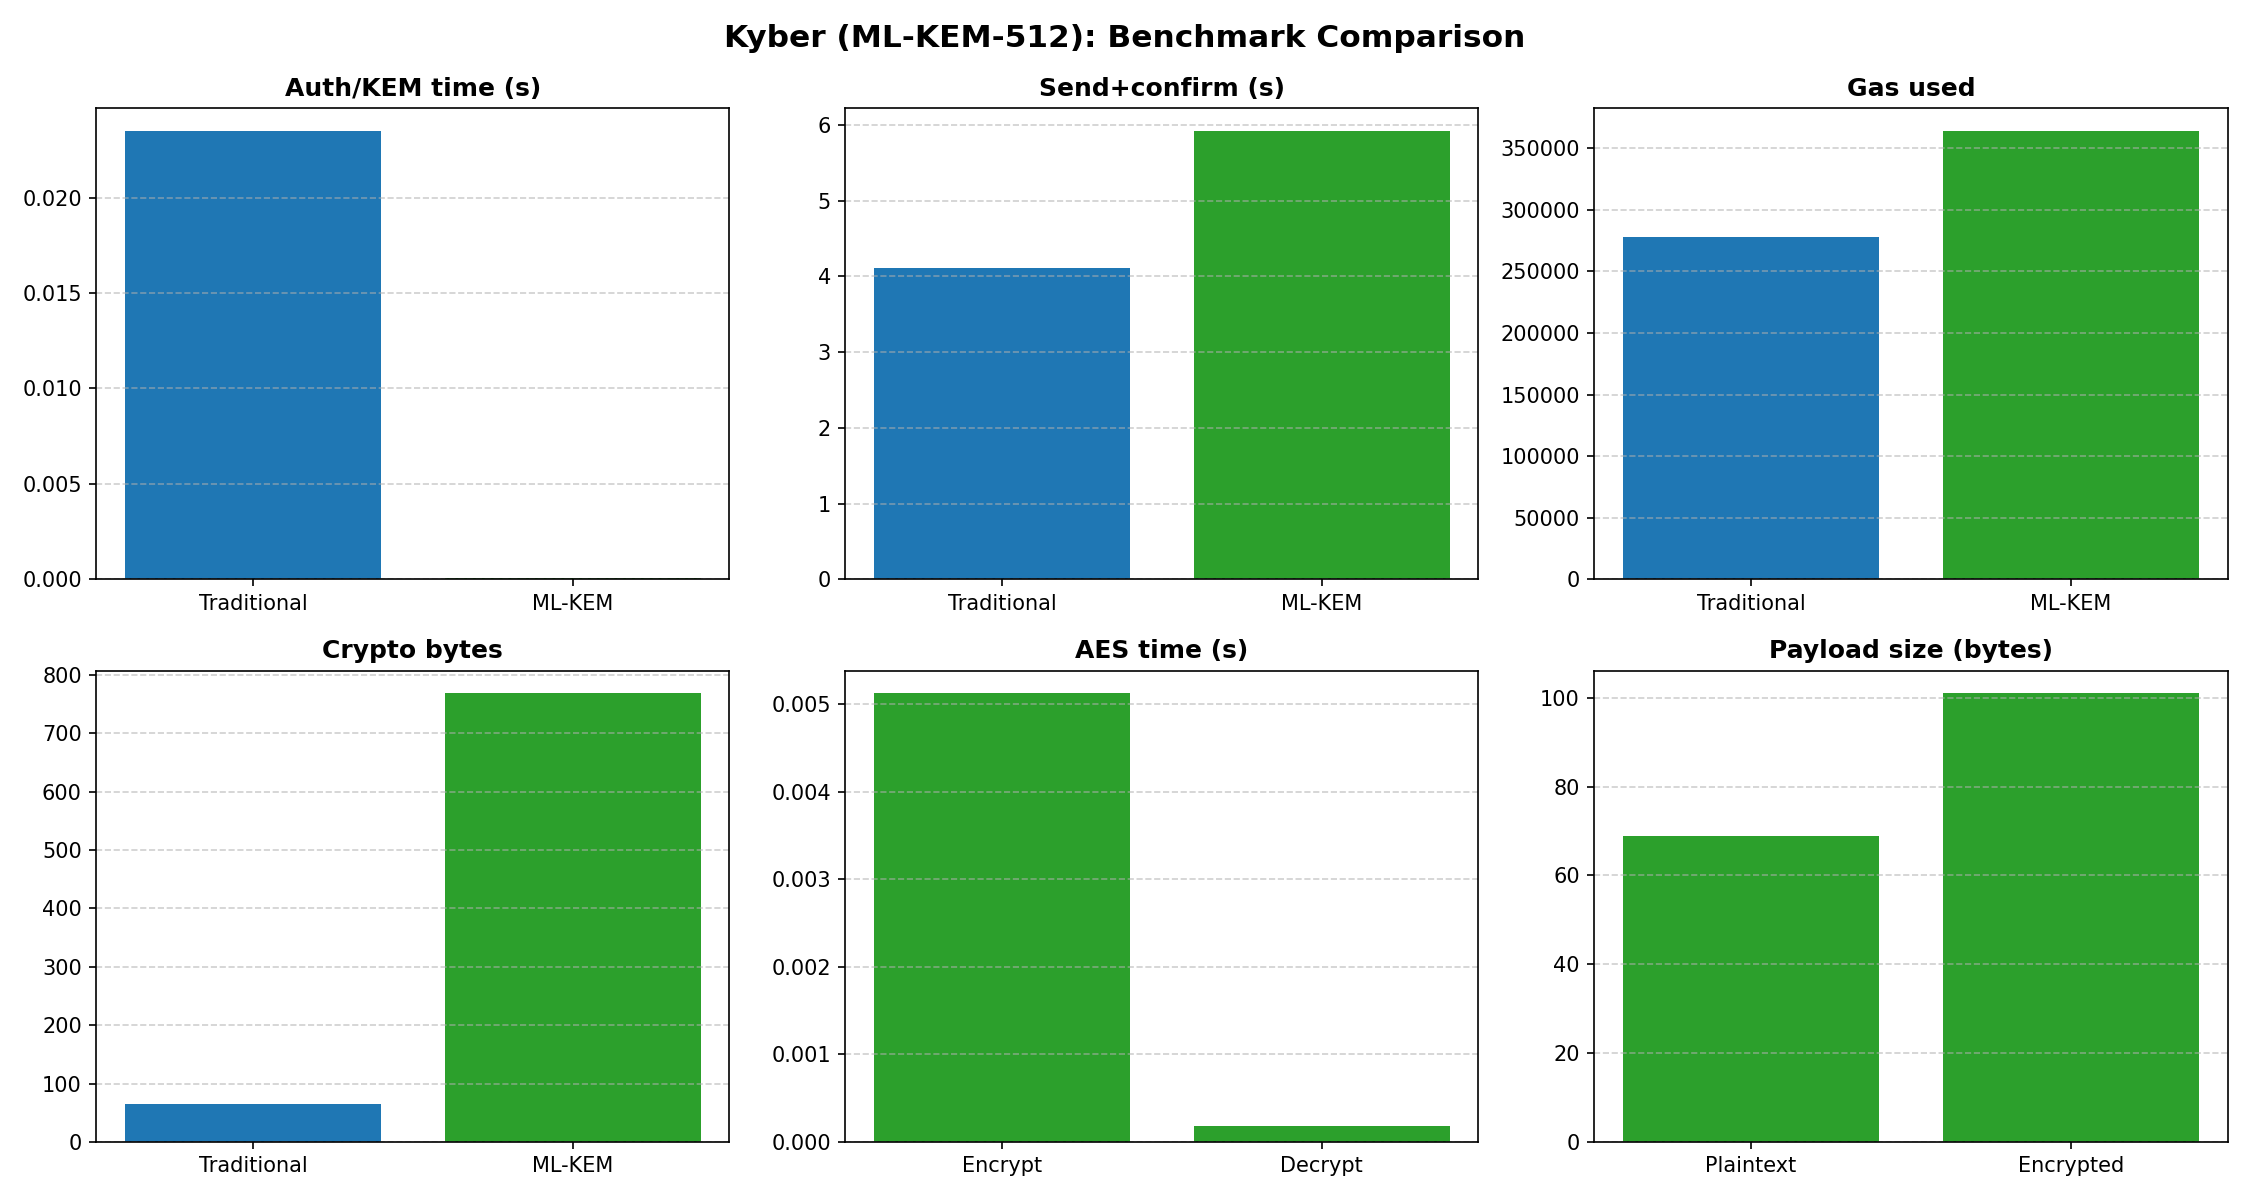
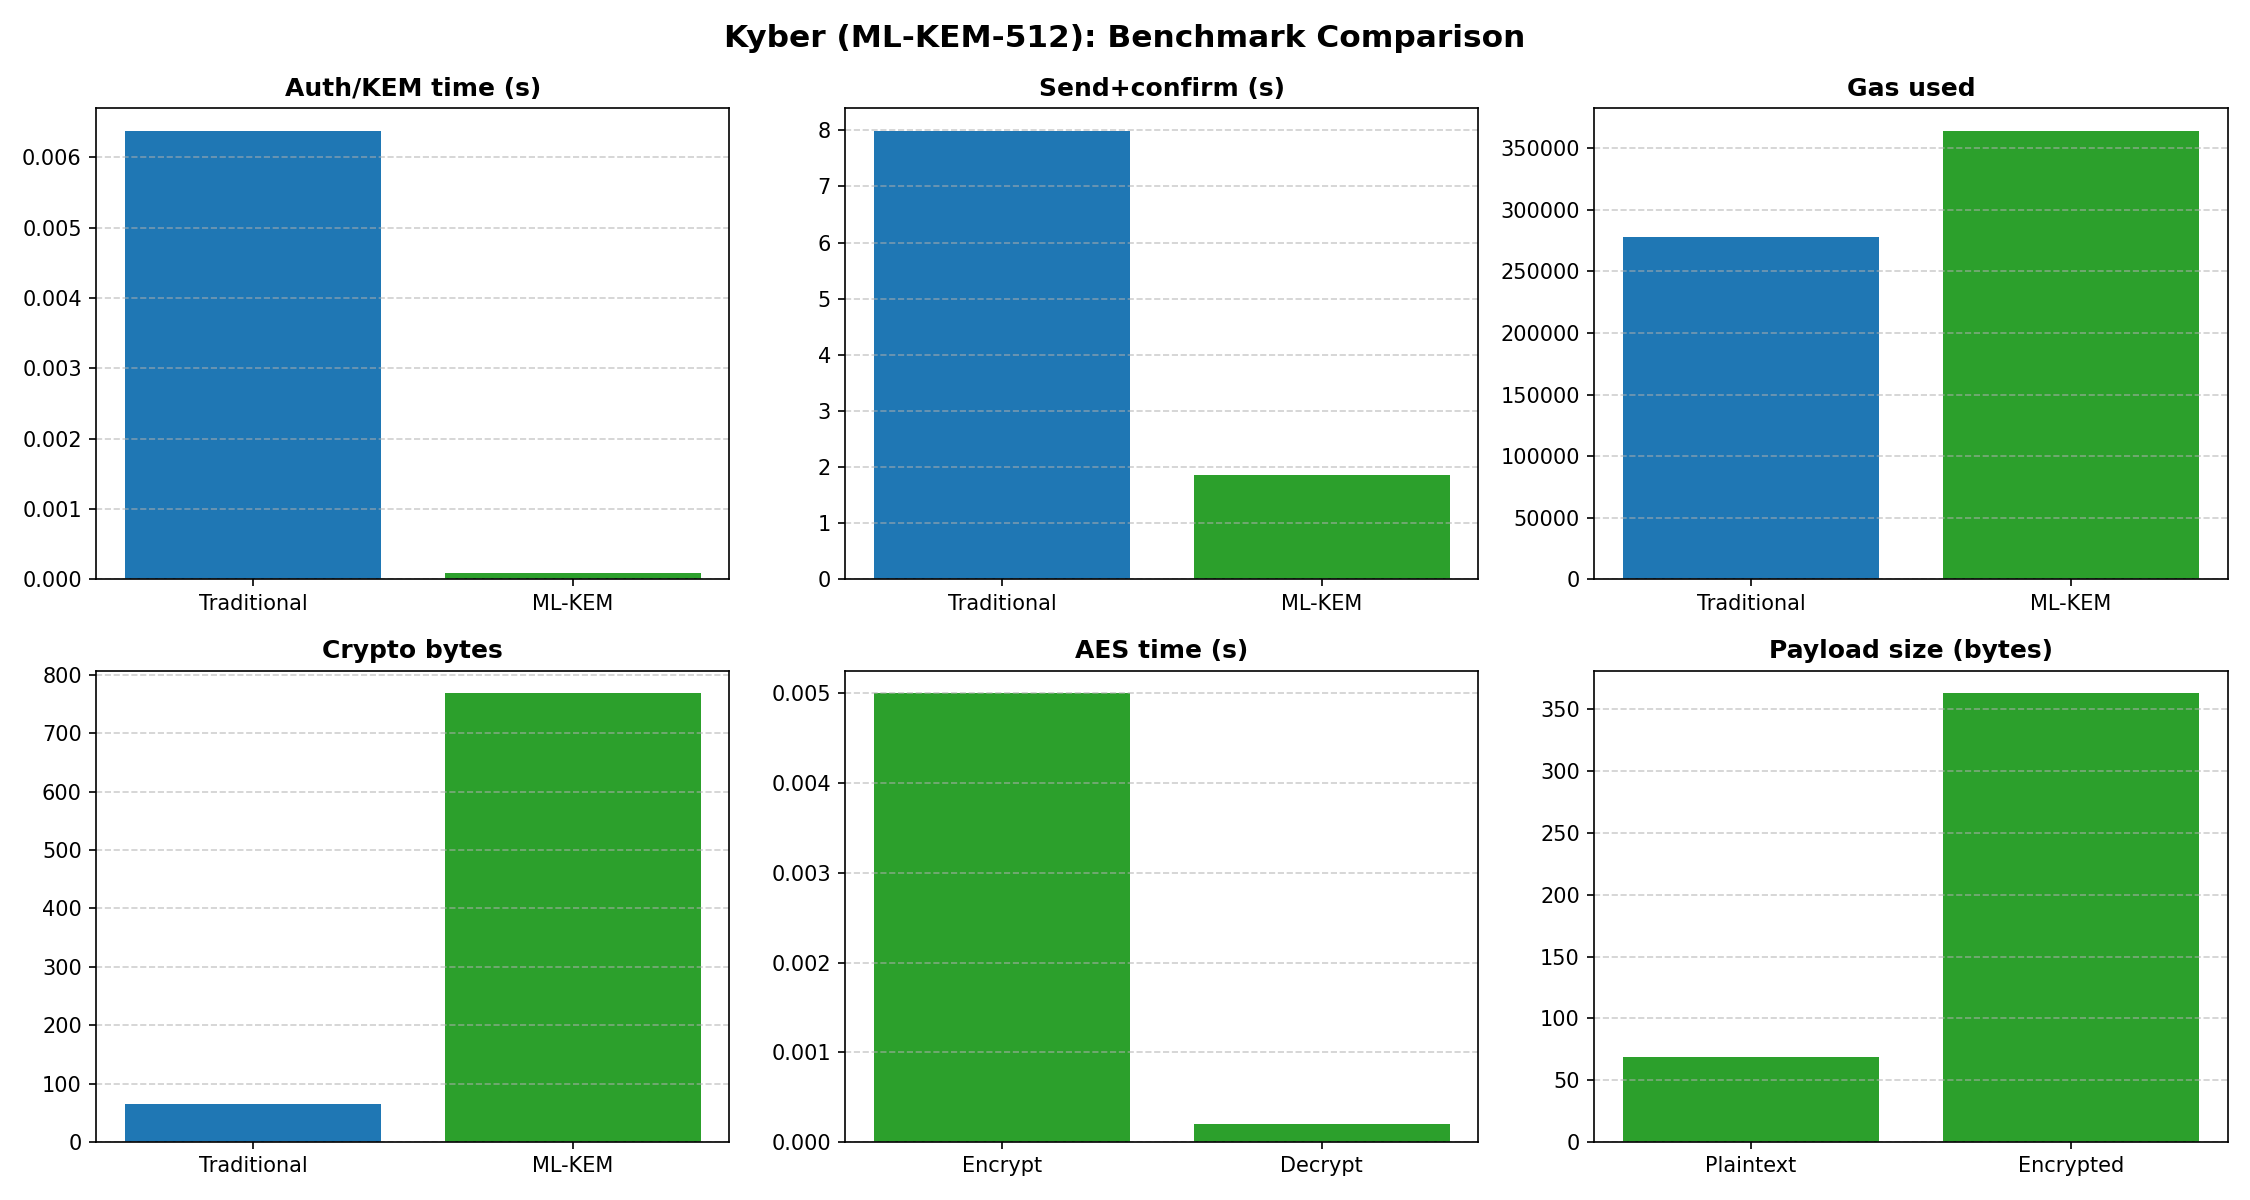
Update Kyber benchmark results and project structure

diff --git a/algorithms/kyber-kem/scripts/common.py b/algorithms/kyber-kem/scripts/common.py
@@ -6,11 +6,20 @@ import importlib.util
 import os
 from pathlib import Path
 
+current_dir = os.path.dirname(os.path.abspath(__file__))
 
+# Trỏ ngược ra 3 cấp thư mục để về gốc project, rồi trỏ tới file shared chung
+SHARED_COMMON = os.path.abspath(os.path.join(current_dir, "../../../shared/python/common.py"))
 SCRIPT_DIR = Path(__file__).resolve().parent
 PROJECT_ROOT = SCRIPT_DIR.parent
-SUITE_ROOT = PROJECT_ROOT.parents[1]
-SHARED_COMMON = SUITE_ROOT / "shared" / "python" / "common.py"
+# Look for 'shared' folder to find SUITE_ROOT
+_current = PROJECT_ROOT
+SUITE_ROOT = PROJECT_ROOT # Default fallback
+for _ in range(5):
+    if (_current / "shared").exists():
+        SUITE_ROOT = _current
+        break
+    _current = _current.parent
 
 os.environ.setdefault("PQC_PROJECT_ROOT", str(PROJECT_ROOT))
 os.environ.setdefault("PQC_SUITE_ROOT", str(SUITE_ROOT))

diff --git a/algorithms/kyber-kem/benchmark/results/availability_summary_kem.md b/algorithms/kyber-kem/benchmark/results/availability_summary_kem.md
@@ -1,6 +1,6 @@
 # Availability Summary - ML-KEM
 
-|Mode                  |Success|Failure|Success Rate|Avg Latency (s)|  P95 (s)  |  P99 (s)  |Throughput (tx/s)|Retries|Avg Gas|
-|----------------------|-------|-------|------------|---------------|-----------|-----------|-----------------|-------|-------|
-|traditional           | 5     | 0     | 100.0%     | 12.125454     | 13.223061 | 13.352819 | 0.079997        | 0     |277813.20 |
-|kyber_kem_confidential| 5     | 0     | 100.0%     | 13.032804     | 21.647252 | 23.526314 | 0.074189        | 0     |363909.20 |
+| Mode | Success | Failure | Success Rate | Avg Latency (s) | P95 (s) | P99 (s) | Throughput (tx/s) | Retries | Avg Gas |
+| --- | --- | --- | --- | --- | --- | --- | --- | --- | --- |
+| traditional | 5 | 0 | 100.0% | 12.125454 | 13.223061 | 13.352819 | 0.079997 | 0 | 277813.20 |
+| kyber_kem_confidential | 5 | 0 | 100.0% | 13.683526 | 22.206178 | 22.258804 | 0.071186 | 0 | 363921.20 |